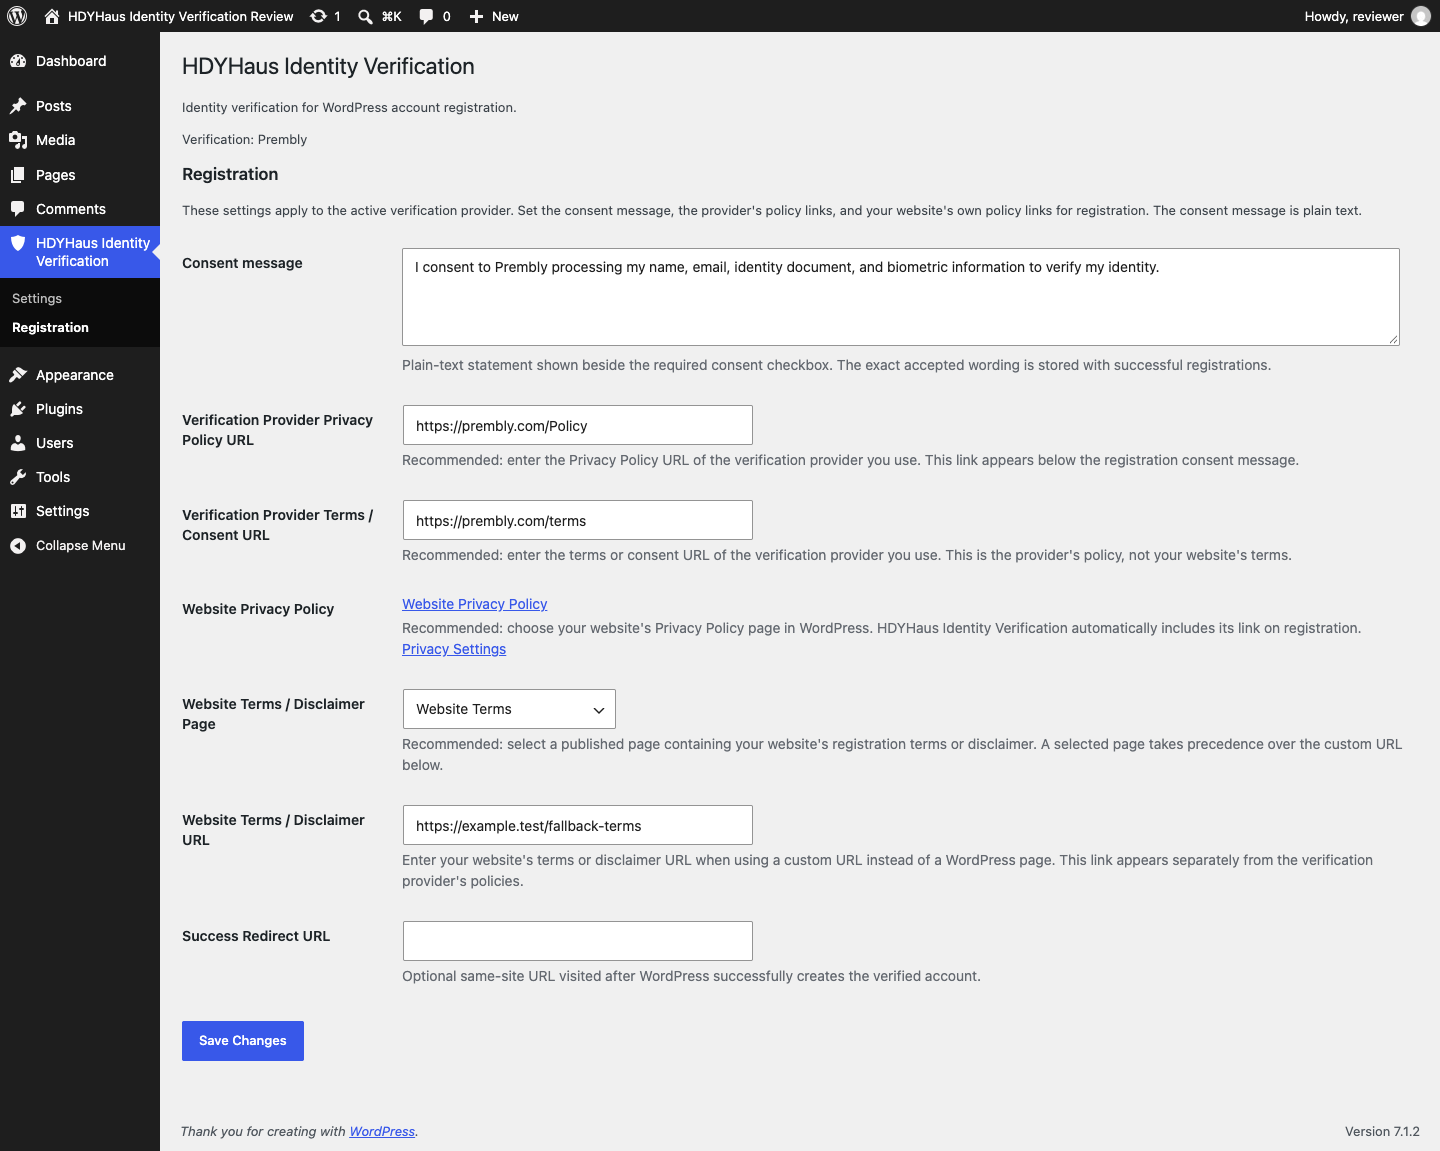
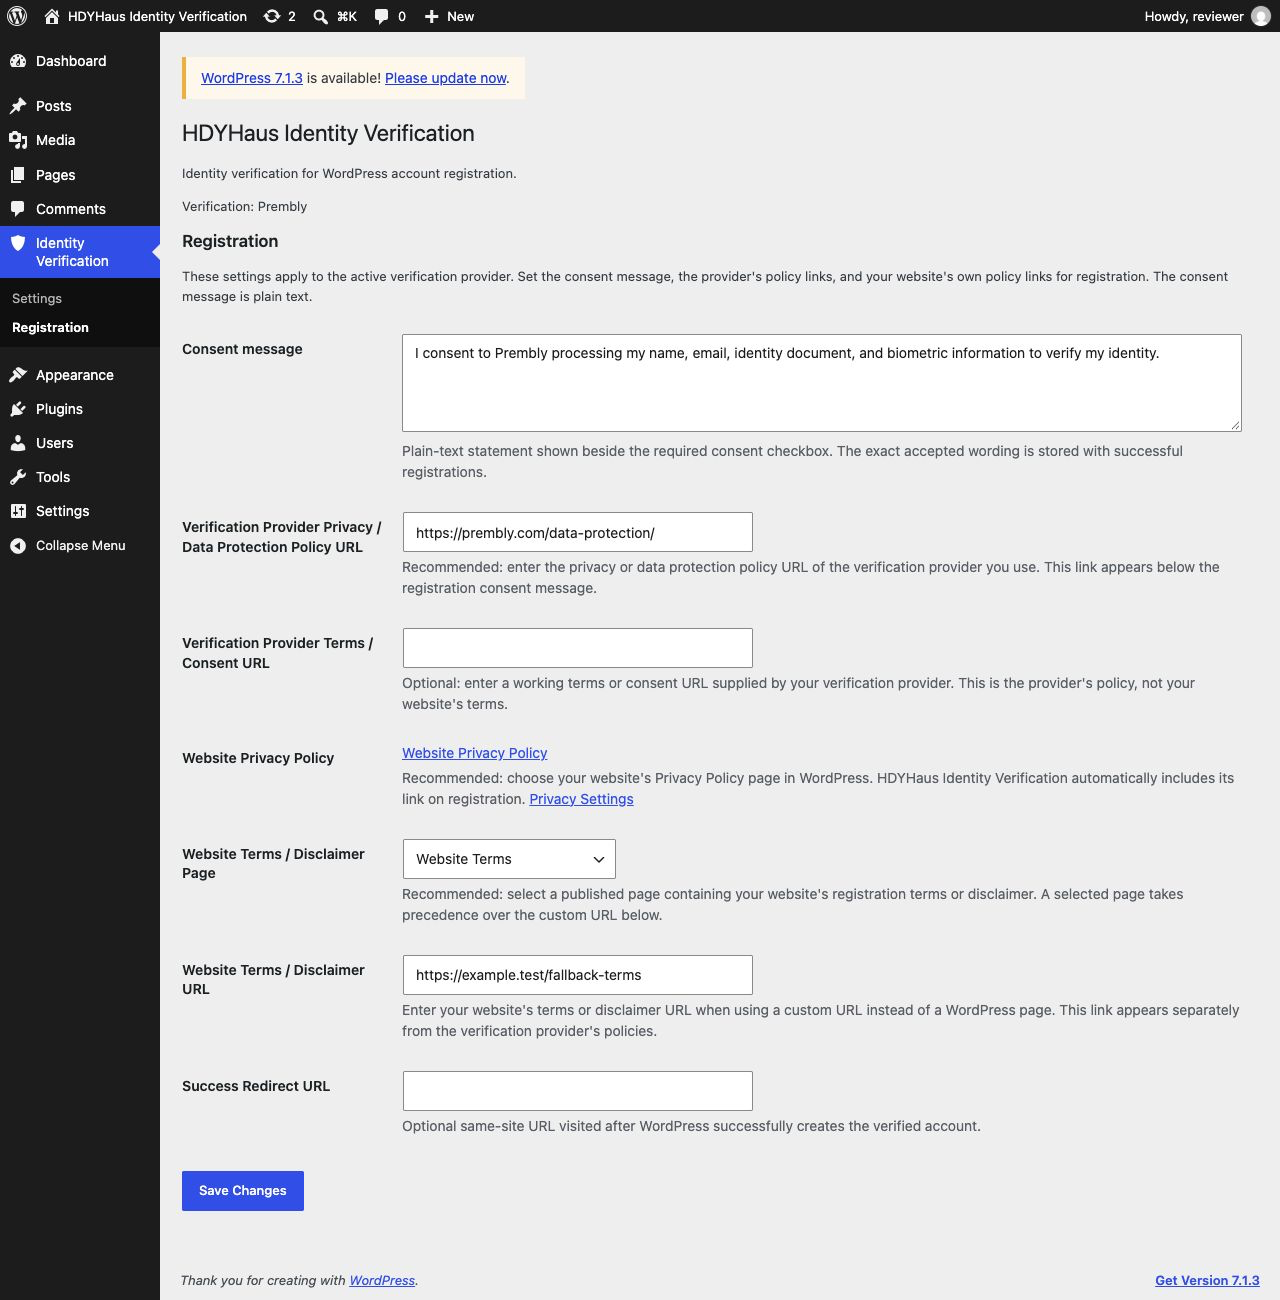
Release 0.9.9 with corrected policy and author links

Changed region(s): [[0.0, 0.0, 1.0, 1.0], [0.9062, 0.9731, 1.0, 1.0]]

diff --git a/includes/Admin/settings-page.php b/includes/Admin/settings-page.php
@@ -281,7 +281,7 @@ final class SettingsPage {
 			'trustgate_registration_flow',
 			array(
 				'consent_text'         => __( 'Consent message', 'hdyhaus-identity-verification' ),
-				'provider_privacy_url' => __( 'Verification Provider Privacy Policy URL', 'hdyhaus-identity-verification' ),
+				'provider_privacy_url' => __( 'Verification Provider Privacy / Data Protection Policy URL', 'hdyhaus-identity-verification' ),
 				'provider_terms_url'   => __( 'Verification Provider Terms / Consent URL', 'hdyhaus-identity-verification' ),
 				'site_privacy_policy'  => __( 'Website Privacy Policy', 'hdyhaus-identity-verification' ),
 				'site_terms_page_id'   => __( 'Website Terms / Disclaimer Page', 'hdyhaus-identity-verification' ),
@@ -348,7 +348,7 @@ final class SettingsPage {
 
 			foreach ( array( 'provider_privacy_url', 'provider_terms_url', 'site_terms_url' ) as $url_field ) {
 				if ( array_key_exists( $url_field, $settings ) ) {
-					$clean[ $url_field ] = esc_url_raw( (string) $settings[ $url_field ] );
+					$clean[ $url_field ] = RegistrationController::normalize_provider_policy_url( $url_field, esc_url_raw( (string) $settings[ $url_field ] ) );
 				}
 			}
 
@@ -552,8 +552,8 @@ final class SettingsPage {
 			'test_configuration_id' => __( 'Prembly SDK Setup > Copy Config ID for the Sandbox widget.', 'hdyhaus-identity-verification' ),
 			'live_public_key'       => __( 'Prembly SDK Setup > Integration > Widget Key while Production is selected.', 'hdyhaus-identity-verification' ),
 			'live_configuration_id' => __( 'Prembly SDK Setup > Copy Config ID for the Live widget.', 'hdyhaus-identity-verification' ),
-			'provider_privacy_url'  => __( 'Recommended: enter the Privacy Policy URL of the verification provider you use. This link appears below the registration consent message.', 'hdyhaus-identity-verification' ),
-			'provider_terms_url'    => __( 'Recommended: enter the terms or consent URL of the verification provider you use. This is the provider\'s policy, not your website\'s terms.', 'hdyhaus-identity-verification' ),
+			'provider_privacy_url'  => __( 'Recommended: enter the privacy or data protection policy URL of the verification provider you use. This link appears below the registration consent message.', 'hdyhaus-identity-verification' ),
+			'provider_terms_url'    => __( 'Optional: enter a working terms or consent URL supplied by your verification provider. This is the provider\'s policy, not your website\'s terms.', 'hdyhaus-identity-verification' ),
 			'site_terms_url'        => __( 'Enter your website\'s terms or disclaimer URL when using a custom URL instead of a WordPress page. This link appears separately from the verification provider\'s policies.', 'hdyhaus-identity-verification' ),
 			'success_redirect'      => __( 'Optional same-site URL visited after WordPress successfully creates the verified account.', 'hdyhaus-identity-verification' ),
 		);
@@ -582,7 +582,7 @@ final class SettingsPage {
 		$settings = $this->get_settings();
 
 		if ( isset( $settings[ $key ] ) ) {
-			return (string) $settings[ $key ];
+			return RegistrationController::normalize_provider_policy_url( $key, (string) $settings[ $key ] );
 		}
 
 		$defaults = array(

diff --git a/includes/Registration/registration-controller.php b/includes/Registration/registration-controller.php
@@ -38,12 +38,30 @@ final class RegistrationController {
 	/**
 	 * Default provider privacy-policy URL.
 	 */
-	public const DEFAULT_PROVIDER_PRIVACY_URL = 'https://prembly.com/Policy';
+	public const DEFAULT_PROVIDER_PRIVACY_URL = 'https://prembly.com/data-protection/';
 
 	/**
 	 * Default provider terms URL.
 	 */
-	public const DEFAULT_PROVIDER_TERMS_URL = 'https://prembly.com/terms';
+	public const DEFAULT_PROVIDER_TERMS_URL = '';
+
+	/**
+	 * Correct previously saved defaults while retaining custom policy URLs.
+	 *
+	 * @param string $key Policy setting key.
+	 * @param string $url Saved URL.
+	 */
+	public static function normalize_provider_policy_url( string $key, string $url ): string {
+		if ( 'provider_privacy_url' === $key && 'https://prembly.com/Policy' === rtrim( $url, '/' ) ) {
+			return self::DEFAULT_PROVIDER_PRIVACY_URL;
+		}
+
+		if ( 'provider_terms_url' === $key && 'https://prembly.com/terms' === rtrim( $url, '/' ) ) {
+			return self::DEFAULT_PROVIDER_TERMS_URL;
+		}
+
+		return $url;
+	}
 
 	/**
 	 * Get the migration-safe default consent wording.
@@ -152,8 +170,11 @@ final class RegistrationController {
 				array(
 					'url'   => $this->get_provider_privacy_url(),
 					'label' => sprintf(
-						/* translators: %s: verification provider name */
-						__( '%s Privacy Policy', 'hdyhaus-identity-verification' ),
+						$this->get_provider_privacy_url() === self::DEFAULT_PROVIDER_PRIVACY_URL
+							/* translators: %s: verification provider name */
+							? __( '%s Data Protection Policy', 'hdyhaus-identity-verification' )
+							/* translators: %s: verification provider name */
+							: __( '%s Privacy Policy', 'hdyhaus-identity-verification' ),
 						$this->provider->get_label()
 					),
 				),
@@ -568,7 +589,9 @@ final class RegistrationController {
 	private function get_configured_url( string $key, string $fallback_url ): string {
 		$settings = $this->get_settings();
 
-		return array_key_exists( $key, $settings ) ? esc_url_raw( (string) $settings[ $key ] ) : $fallback_url;
+		$url = array_key_exists( $key, $settings ) ? esc_url_raw( (string) $settings[ $key ] ) : $fallback_url;
+
+		return self::normalize_provider_policy_url( $key, $url );
 	}
 
 	/**

diff --git a/tests/test-registration-controller.php b/tests/test-registration-controller.php
@@ -373,4 +373,20 @@ $trustgate_test_settings['site_terms_page_id'] = '0';
 $trustgate_test_settings['site_terms_url'] = '';
 trustgate_registration_assert_same( '', $terms_method->invoke( $controller ), 'No website terms link is supplied when neither source is configured.' );
 
+$privacy_method = new ReflectionMethod( RegistrationController::class, 'get_provider_privacy_url' );
+$provider_terms_method = new ReflectionMethod( RegistrationController::class, 'get_provider_terms_url' );
+$trustgate_test_settings['provider_privacy_url'] = 'https://prembly.com/Policy';
+$trustgate_test_settings['provider_terms_url'] = 'https://prembly.com/terms';
+trustgate_registration_assert_same( 'https://prembly.com/data-protection/', $privacy_method->invoke( $controller ), 'Saved legacy policy URLs resolve to the Data Protection Policy.' );
+trustgate_registration_assert_same( '', $provider_terms_method->invoke( $controller ), 'The obsolete saved default terms link is omitted.' );
+$trustgate_test_settings['provider_privacy_url'] = 'https://provider.example/privacy';
+$trustgate_test_settings['provider_terms_url'] = 'https://provider.example/consent';
+trustgate_registration_assert_same( 'https://provider.example/privacy', $privacy_method->invoke( $controller ), 'Custom privacy URLs are retained.' );
+trustgate_registration_assert_same( 'https://provider.example/consent', $provider_terms_method->invoke( $controller ), 'Custom terms URLs are retained.' );
+$trustgate_test_settings['provider_privacy_url'] = '';
+trustgate_registration_assert_same( '', $privacy_method->invoke( $controller ), 'An intentionally empty privacy URL remains empty.' );
+unset( $trustgate_test_settings['provider_privacy_url'], $trustgate_test_settings['provider_terms_url'] );
+trustgate_registration_assert_same( 'https://prembly.com/data-protection/', $privacy_method->invoke( $controller ), 'Older settings without policy fields use the corrected default.' );
+trustgate_registration_assert_same( '', $provider_terms_method->invoke( $controller ), 'Older settings without terms fields do not show an obsolete link.' );
+
 fwrite( STDOUT, "Registration metadata tests passed.\n" );

diff --git a/hdyhaus-identity-verification.php b/hdyhaus-identity-verification.php
@@ -3,11 +3,11 @@
  * Plugin Name: HDYHaus Identity Verification
  * Plugin URI: https://github.com/HDYHaus/identity-verification
  * Description: Verify people during WordPress registration with pluggable identity verification providers. Prembly support is the first provider.
- * Version: 0.9.8
+ * Version: 0.9.9
  * Requires at least: 6.4
  * Requires PHP: 8.1
  * Author: HDY Haus
- * Author URI: https://github.com/HDYHaus
+ * Author URI: https://hdyhaus.com/wp-plugins/identity-verification
  * License: GPL-2.0-or-later
  * License URI: https://www.gnu.org/licenses/gpl-2.0.html
  * Text Domain: hdyhaus-identity-verification
@@ -22,7 +22,7 @@ if ( ! defined( 'ABSPATH' ) ) {
 	exit;
 }
 
-define( 'TRUSTGATE_REGISTRATION_VERSION', '0.9.8' );
+define( 'TRUSTGATE_REGISTRATION_VERSION', '0.9.9' );
 define( 'TRUSTGATE_REGISTRATION_FILE', __FILE__ );
 define( 'TRUSTGATE_REGISTRATION_PATH', plugin_dir_path( __FILE__ ) );
 define( 'TRUSTGATE_REGISTRATION_URL', plugin_dir_url( __FILE__ ) );

diff --git a/README.md b/README.md
@@ -12,7 +12,7 @@ HDYHaus Identity Verification is a WordPress plugin for verified account registr
 
 ## Current Status
 
-Version 0.9.8 is the WordPress.org release candidate. The plugin includes the settings interface, native registration hooks, provider registry, Prembly widget integration, fail-closed server-side session confirmation, explicit registrant consent, session and identity replay protection, WordPress privacy tool integration, and read-only verification details on administrator user-profile screens.
+Version 0.9.9 corrects the provider policy links in the WordPress.org release. The plugin includes the settings interface, native registration hooks, provider registry, Prembly widget integration, fail-closed server-side session confirmation, explicit registrant consent, session and identity replay protection, WordPress privacy tool integration, and read-only verification details on administrator user-profile screens.
 
 Identity fingerprints use a persistent site-specific plugin secret. Keep this option with database backups; WordPress authentication salt changes do not affect it. Version 0.9.8 preserves existing settings but does not migrate earlier development fingerprints. Retest using fresh verification records. When installing the renamed package over a development installation, deactivate the old TrustGate package before activating the new one.
 

diff --git a/CHANGELOG.md b/CHANGELOG.md
@@ -1,5 +1,12 @@
 # Changelog
 
+## 0.9.9
+
+- Link the HDY Haus author credit to the plugin landing page.
+- Use Prembly's Data Protection Policy and remove the obsolete default Terms link.
+- Correct saved legacy provider policy defaults while retaining custom URLs.
+- Refresh listing screenshots to match the Identity Verification menu label.
+
 ## 0.9.8
 
 - Rename the plugin and package to HDYHaus Identity Verification.
